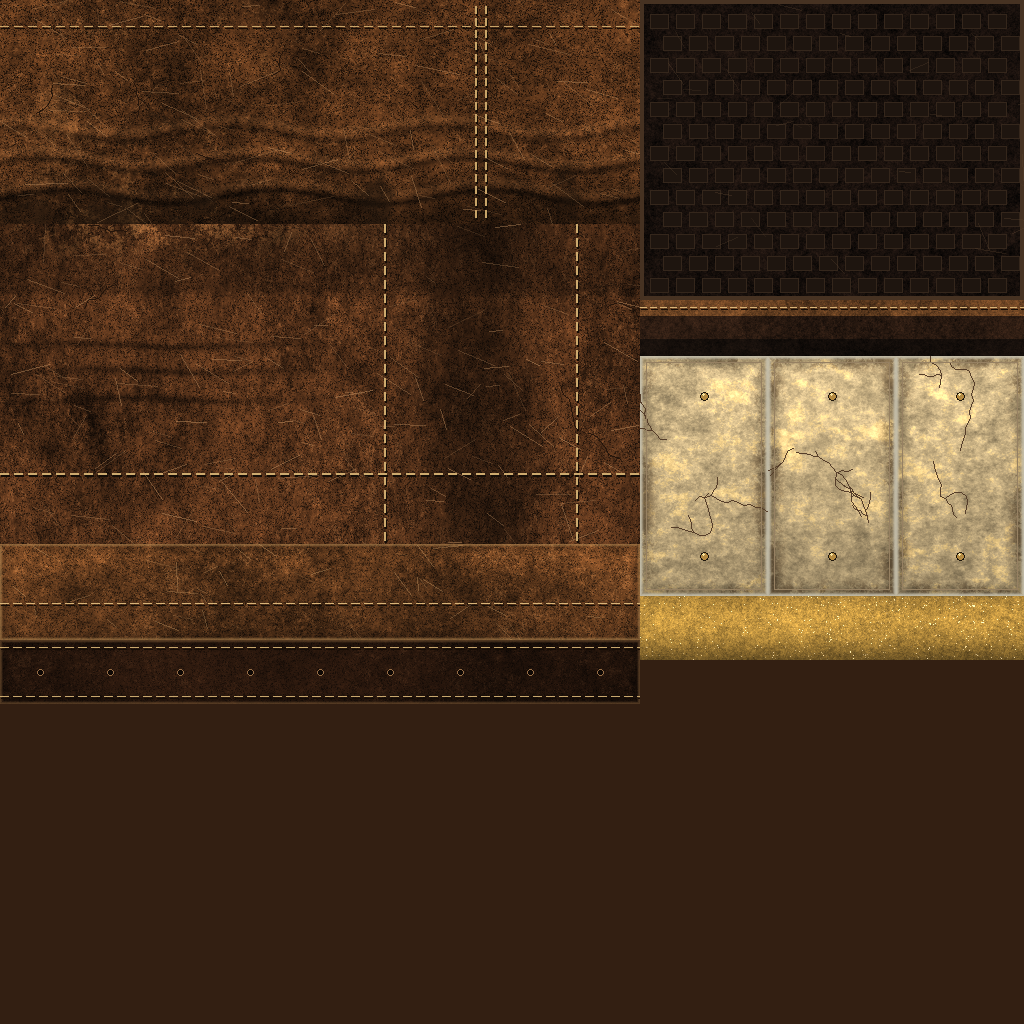
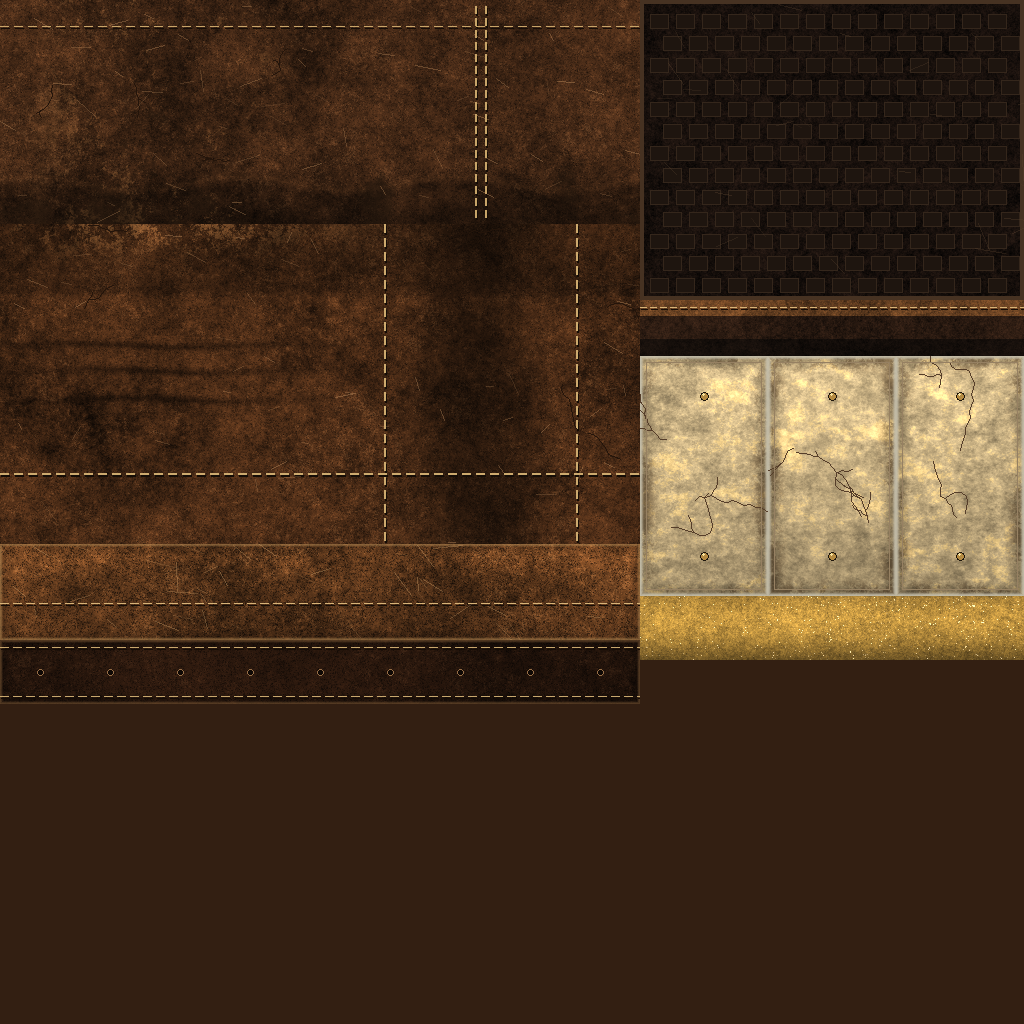
feat(arqueiro): botas v2 com bico arredondado, dobra no cano e couro liso
- Bico arredondado com mais anel de perfil no pe (FT/FHW/FZT).
- Solado com borda arredondada em 5 aneis, em vez de chanfro seco.
- Dobra no topo do cano (anel extra) e cano um pouco mais largo.
- Textura do cano e da parte superior sem veio de madeira (ay 1.7 -> 1.0),
  couro mais escuro e menos arranhao.
- Sem placas de osso: a folha 03_arqueiro.png mostra couro liso com fivela.
- Mantidos: 27 ossos, nomes SK_Archer_Botas e M_Arqueiro_Botas, pesos e encaixe nas pernas.
- 904 tris (antes 920).

Changed region(s): [[0.0, 0.0, 0.625, 0.2188]]

diff --git a/art-src/personagens/arqueiro/pernas_geo.py b/art-src/personagens/arqueiro/pernas_geo.py
@@ -373,9 +373,9 @@ XC = 0.165          # centro X do pe
 Y_HEEL, Y_TOE = 0.160, -0.275
 LEN = Y_HEEL - Y_TOE
 # t: posicao ao longo do pe (0 calcanhar, 1 bico)
-FT = [0.0, 0.22, 0.42, 0.60, 0.76, 0.90, 0.975]
-FHW = [0.090, 0.100, 0.110, 0.119, 0.120, 0.100, 0.058]
-FZT = [0.150, 0.148, 0.132, 0.116, 0.104, 0.092, 0.076]
+FT = [0.0, 0.22, 0.42, 0.60, 0.76, 0.88, 0.95, 0.99]
+FHW = [0.090, 0.100, 0.110, 0.119, 0.121, 0.114, 0.095, 0.054]
+FZT = [0.150, 0.148, 0.132, 0.116, 0.104, 0.094, 0.082, 0.066]
 Z_SOLA = 0.040
 
 
@@ -402,8 +402,8 @@ def construir_botas(seed=11):
     for sx in (1, -1):
         sr = random.Random(seed + (0 if sx > 0 else 5))
         # ---- cano (com cuff dobrado no topo)
-        zc = [0.075, 0.12, 0.165, 0.21, 0.245, 0.262]
-        offc = [0.0, 0.003, -0.002, 0.004, 0.016, 0.006]
+        zc = [0.075, 0.12, 0.165, 0.21, 0.240, 0.254, 0.264]
+        offc = [0.0, 0.004, -0.001, 0.006, 0.014, 0.017, 0.007]
         nseg = 10
         aneis = []
         for z, o in zip(zc, offc):
@@ -421,7 +421,7 @@ def construir_botas(seed=11):
         def uvc(i, j):
             if i <= 3:
                 return uvmap(BOTAS["CANO"], j / nseg, i / 3)
-            return uvmap(BOTAS["CUFF"], j / nseg, 0.2 if i == 4 else 1.0)
+            return uvmap(BOTAS["CUFF"], j / nseg, {4: 0.0, 5: 0.5, 6: 1.0}[i])
         M.grade(aneis, uvc, "cano", True, True, fora=lambda p, sx=sx: Vector((sx * cl_bota(p.z)[0], cl_bota(p.z)[1], p.z)))
         # ---- peito do pe (shell): aneis ao longo de Y
         nj = 10
@@ -458,12 +458,12 @@ def construir_botas(seed=11):
 
         def escala(f):
             return [(sx * XC + (x - sx * XC) * f, ymid + (y - ymid) * f) for x, y in pol]
-        aneis = [[(x, y, z) for x, y in escala(f)] for f, z in ((0.93, 0.0), (1.0, 0.010), (1.0, 0.040))]
+        aneis = [[(x, y, z) for x, y in escala(f)] for f, z in ((0.93, 0.0), (0.955, 0.004), (0.985, 0.011), (1.0, 0.022), (1.0, 0.040))]
         per = [0.0]
         for k in range(np_):
             a, b = pol[k], pol[(k + 1) % np_]
             per.append(per[-1] + math.hypot(a[0] - b[0], a[1] - b[1]))
-        M.grade(aneis, lambda i, j: uvmap(BOTAS["SOLEW"], per[j] / per[-1], [0.0, 0.25, 1.0][i]), "sole", True, False,
+        M.grade(aneis, lambda i, j: uvmap(BOTAS["SOLEW"], per[j] / per[-1], [0.0, 0.06, 0.14, 0.22, 1.0][i]), "sole", True, False,
                 fora=lambda p, sx=sx: Vector((sx * XC, ymid, 0.017)))
         # tampas (planar): embaixo com banda de rodagem, em cima
         def planar(i, p):
@@ -474,12 +474,7 @@ def construir_botas(seed=11):
         # ---- placas de osso no cano (lado externo, interno, frente)
         def pontaS(u):
             return (0.100 + 0.028 * abs(math.sin(u * 3.1)) , 0.222 - 0.02 * (1 - math.sin(u * math.pi)))
-        placa(M, sx, -0.50, 0.55, 0.0, 0.0, 3, 2, 0.010, 0.012, "PLATE", "plate", BOTAS["PLATE_O"], cl_bota, rad_bota,
-              forma=lambda u: (0.105 + 0.045 * u, 0.232 - 0.03 * u))
-        placa(M, sx, math.pi - 0.55, math.pi + 0.45, 0.0, 0.0, 3, 2, 0.010, 0.012, "PLATE", "plate", BOTAS["PLATE_I"], cl_bota, rad_bota,
-              forma=lambda u: (0.150 - 0.04 * u, 0.215 + 0.02 * u))
-        placa(M, sx, -math.pi * 0.5 - 0.50, -math.pi * 0.5 + 0.50, 0.0, 0.0, 4, 2, 0.011, 0.012, "PLATE", "plate", BOTAS["PLATE_F"], cl_bota, rad_bota,
-              forma=lambda u: (0.115 + 0.055 * (1 - abs(2 * u - 1)), 0.238 - 0.01 * abs(2 * u - 1)))
+        # sem placas de osso: a folha 03_arqueiro.png mostra botas de couro liso, so com fivela pequena
         # ---- cintas de couro + fivela
         for zs_, alt in ((0.182, 0.018),):
             cinta(M, sx, zs_, alt, 0.021, BOTAS["STRAP"], "strap", cl_bota, rad_bota, nseg=10)

diff --git a/art-src/personagens/arqueiro/pernas_textura.py b/art-src/personagens/arqueiro/pernas_textura.py
@@ -333,13 +333,12 @@ OSSO = (0.84, 0.74, 0.55)
 
 
 def cano(w, h):
-    a = leather(h, w, (0.34, 0.20, 0.10), rugas=1.4, ay=1.0)
+    # couro escuro e liso: as listras horizontais antigas pareciam madeira; agora so uma dobra suave no tornozelo
+    a = leather(h, w, (0.26, 0.155, 0.085), rugas=0.55, ay=1.0)
     uu, tt = coords(h, w)
-    # rugas de acordeao no tornozelo (embaixo) e dobras horizontais
-    for t0, f in ((0.12, 0.8), (0.26, 0.6), (0.40, 0.4)):
-        v = vinco(h, w, t0, 0.022, f, 1.5, t0 * 50)
-        a *= (1 - 0.6 * v)[..., None]
-        a += np.array([0.35, 0.24, 0.14], np.float32) * (vinco(h, w, t0 + 0.04, 0.03, 0.25, 1.5, t0 * 50))[..., None]
+    v = vinco(h, w, 0.14, 0.03, 0.45, 1.5, 7.0)
+    a *= (1 - 0.35 * v)[..., None]
+    a += np.array([0.20, 0.13, 0.07], np.float32) * (vinco(h, w, 0.18, 0.02, 0.2, 1.5, 7.0))[..., None]
     # sujeira embaixo, couro claro gasto na frente (u=.25), escuro atras
     a *= (1 - 0.45 * ss(0.3 - tt, 0, 0.3))[..., None]
     gasto = ss(fbm(h, w, 2.2), 0.6, 2.0) * ss(np.cos((uu - 0.25) * math.tau), 0.1, 0.9)
@@ -354,11 +353,12 @@ def cano(w, h):
     rs = rng()
     for _ in range(5):
         rachadura(im, (rs.uniform(0, w), rs.uniform(h * 0.2, h * 0.9)), 7, 5, (35, 20, 10), rs)
-    return arranhoes(from_img(im), 120, rs, (0.78, 0.58, 0.38), 45, 0.4)
+    return arranhoes(from_img(im), 60, rs, (0.78, 0.58, 0.38), 25, 0.4)
 
 
 def upper(w, h):
-    a = leather(h, w, (0.36, 0.21, 0.11), rugas=1.2, ay=1.7)
+    # ay=1.0 (antes 1.7): o ruido esticado na horizontal fazia veio de madeira
+    a = leather(h, w, (0.30, 0.175, 0.09), rugas=0.6, ax=1.0, ay=1.0)
     uu, tt = coords(h, w)
     # u=0 externo, .25 topo, .5 interno, .75 sola. t=0 calcanhar, 1 bico
     topo = np.exp(-((uu - 0.25) / 0.20) ** 2)
@@ -383,7 +383,7 @@ def upper(w, h):
     rs = rng()
     for _ in range(6):
         rachadura(im, (rs.uniform(0, w), rs.uniform(0, h)), 8, 5, (35, 20, 10), rs)
-    return arranhoes(from_img(im), 140, rs, (0.8, 0.6, 0.4), 40, 0.45)
+    return arranhoes(from_img(im), 50, rs, (0.8, 0.6, 0.4), 22, 0.4)
 
 
 def sola(w, h):
